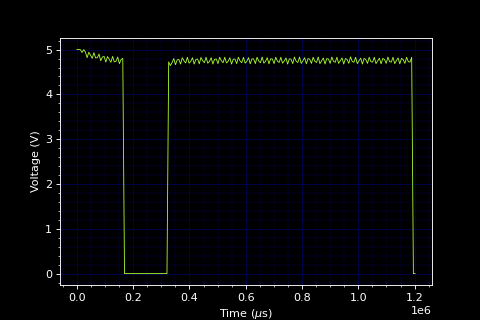
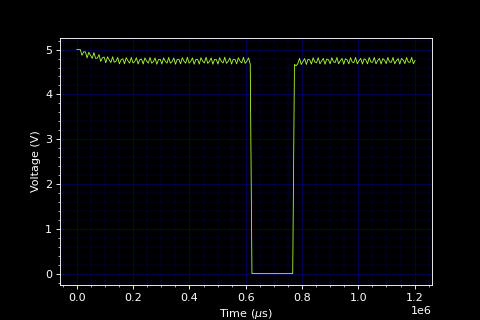
Update docs

diff --git a/README.md b/README.md
@@ -57,17 +57,16 @@ The VCC and ground power rails were connected to the device's 5V and GND pins, a
 ### Capturing a trace
 To capture a trace, run:
 ```
-python3 src/py/runner.py edge -n 100 -r 1000000
+python3 src/py/runner.py roll -n 100 -r 1000000
 ```
-In this example, the device was asked to collect a trace with a record length of 100 (i.e. 100 "reads") over a
+In this example, the device is asked to collect a trace with a record length of 100 (i.e. 100 "reads") over a
 span of 1,000,000 microseconds, or 1 second (the measurement duration). This evaluates to approximately 10,000
 microseconds between a read. Upon dispatch, the command will return:
 ```
-> Waiting on trigger...
+> Reading data from device
 ```
-The device waits for a trigger before beginning data acquisition. Once triggered, the device acquires the data
-and sends the data to the host via UART. Data acquisition and transmission is complete when the rount trip
-time is printed to the console:
+The device will now acquire data. After both data acquisition and transmission are complete, the command will
+print the total round trip time to the console:
 ```
 > Round trip time: 1944.3388 ms
 ```
@@ -91,15 +90,15 @@ Peeking at the results, as was described in the [Capturing a trace](#capturing-a
 uninteresting. To actually visualize the results, the software can be coerced into exporting a plot by
 dispatching the runner with additional plotting arguments:
 ```
-python3 src/py/runner.py edge -n 200 -r 1200000 -p -q /tmp/example_plotting.png
+python3 src/py/runner.py roll -n 200 -r 1200000 -p -q /tmp/example_roll.png
 ```
 Or using long options:
 ```
-python3 src/py/runner.py edge -n 200 -r 1200000 --plot --plot-path /tmp/example_plotting.png
+python3 src/py/runner.py roll -n 200 -r 1200000 --plot --plot-path /tmp/example_roll.png
 ```
 Which will generate the following plot:
 <p align="center">
-  <img src=./docs/example_plotting.png>
+  <img src=./docs/example_roll.png>
 </p>
 
 ### Edge triggering
